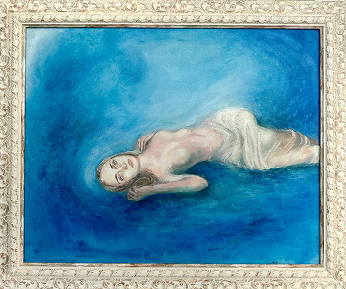
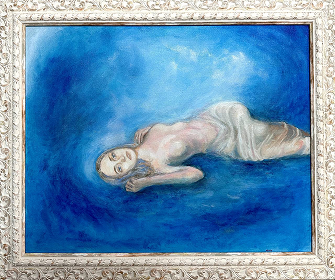
feat: Added new art.

diff --git a/src/constants/arts.ts b/src/constants/arts.ts
@@ -40,6 +40,14 @@ export const ArtsTabBar = [
 
 const paintings: I_Art[] = [
   {
+    title: "ласточка",
+    year: 2025,
+    size: "10х10",
+    material: "акрил, масло",
+    base: "холст на картоне",
+    fileIds: ["/teethPortal_mobile/images/ласточка.png"],
+  },
+  {
     title: "волна",
     year: 2025,
     size: "50х40",
